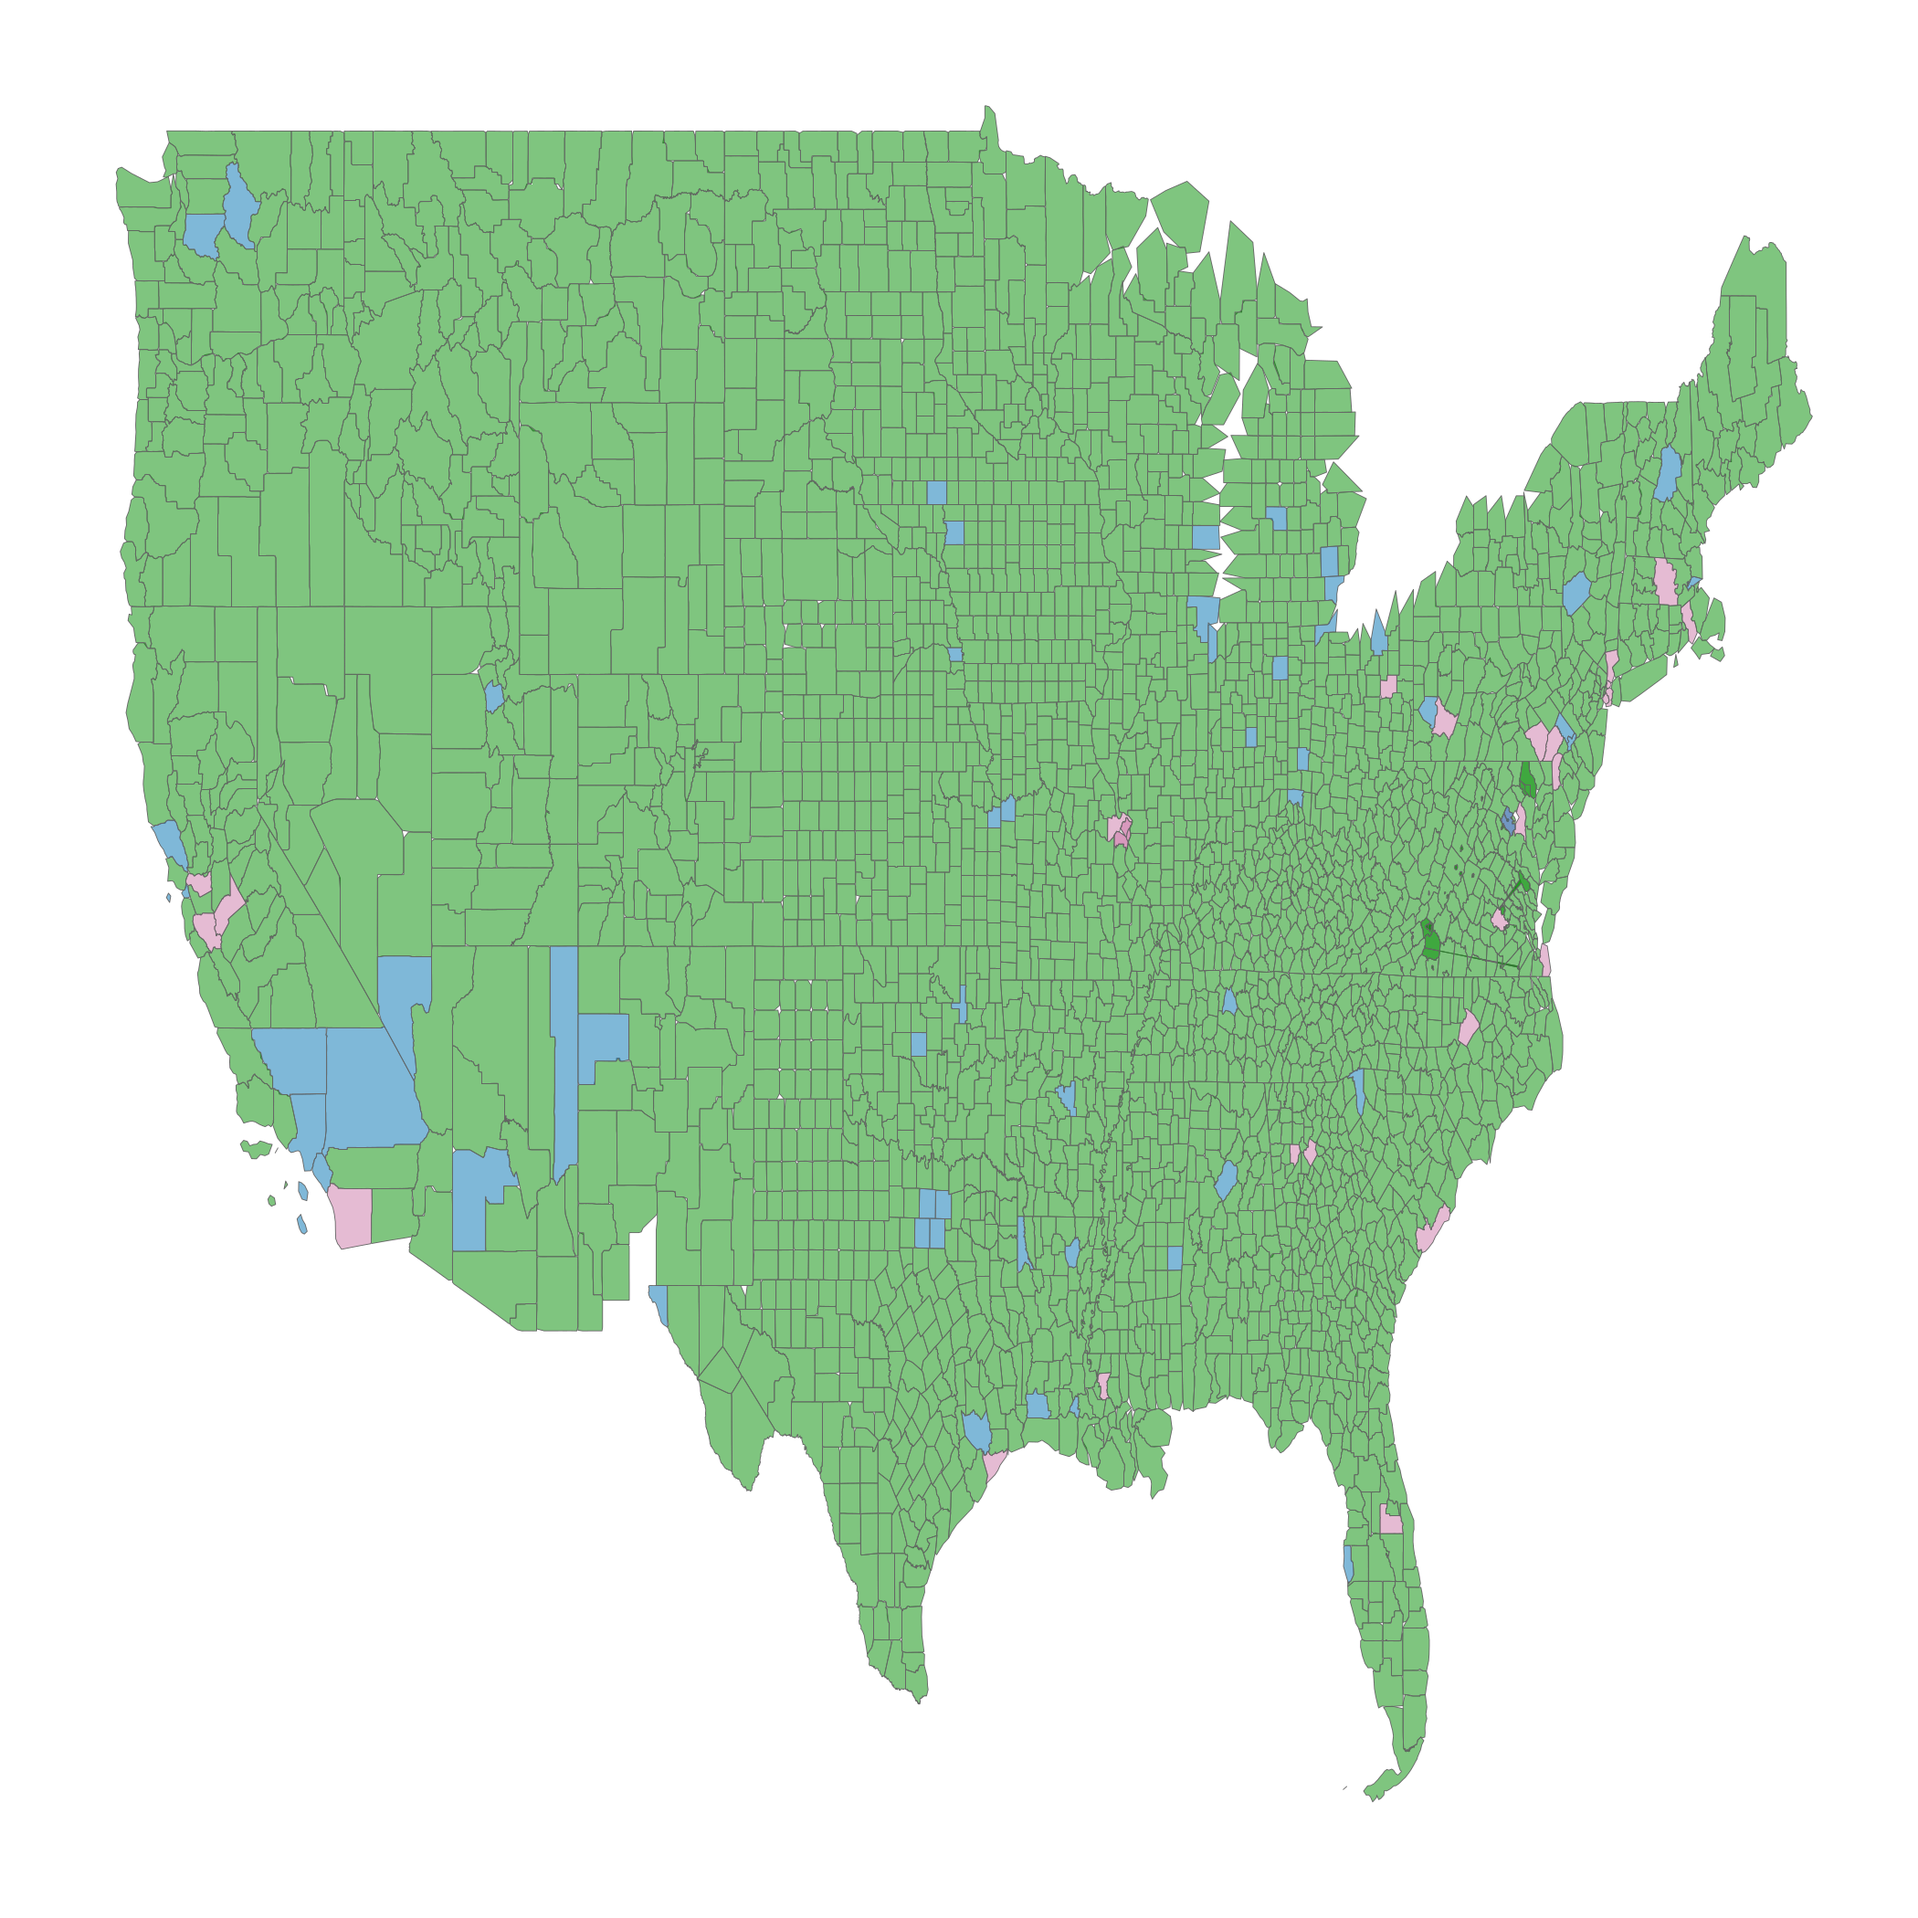
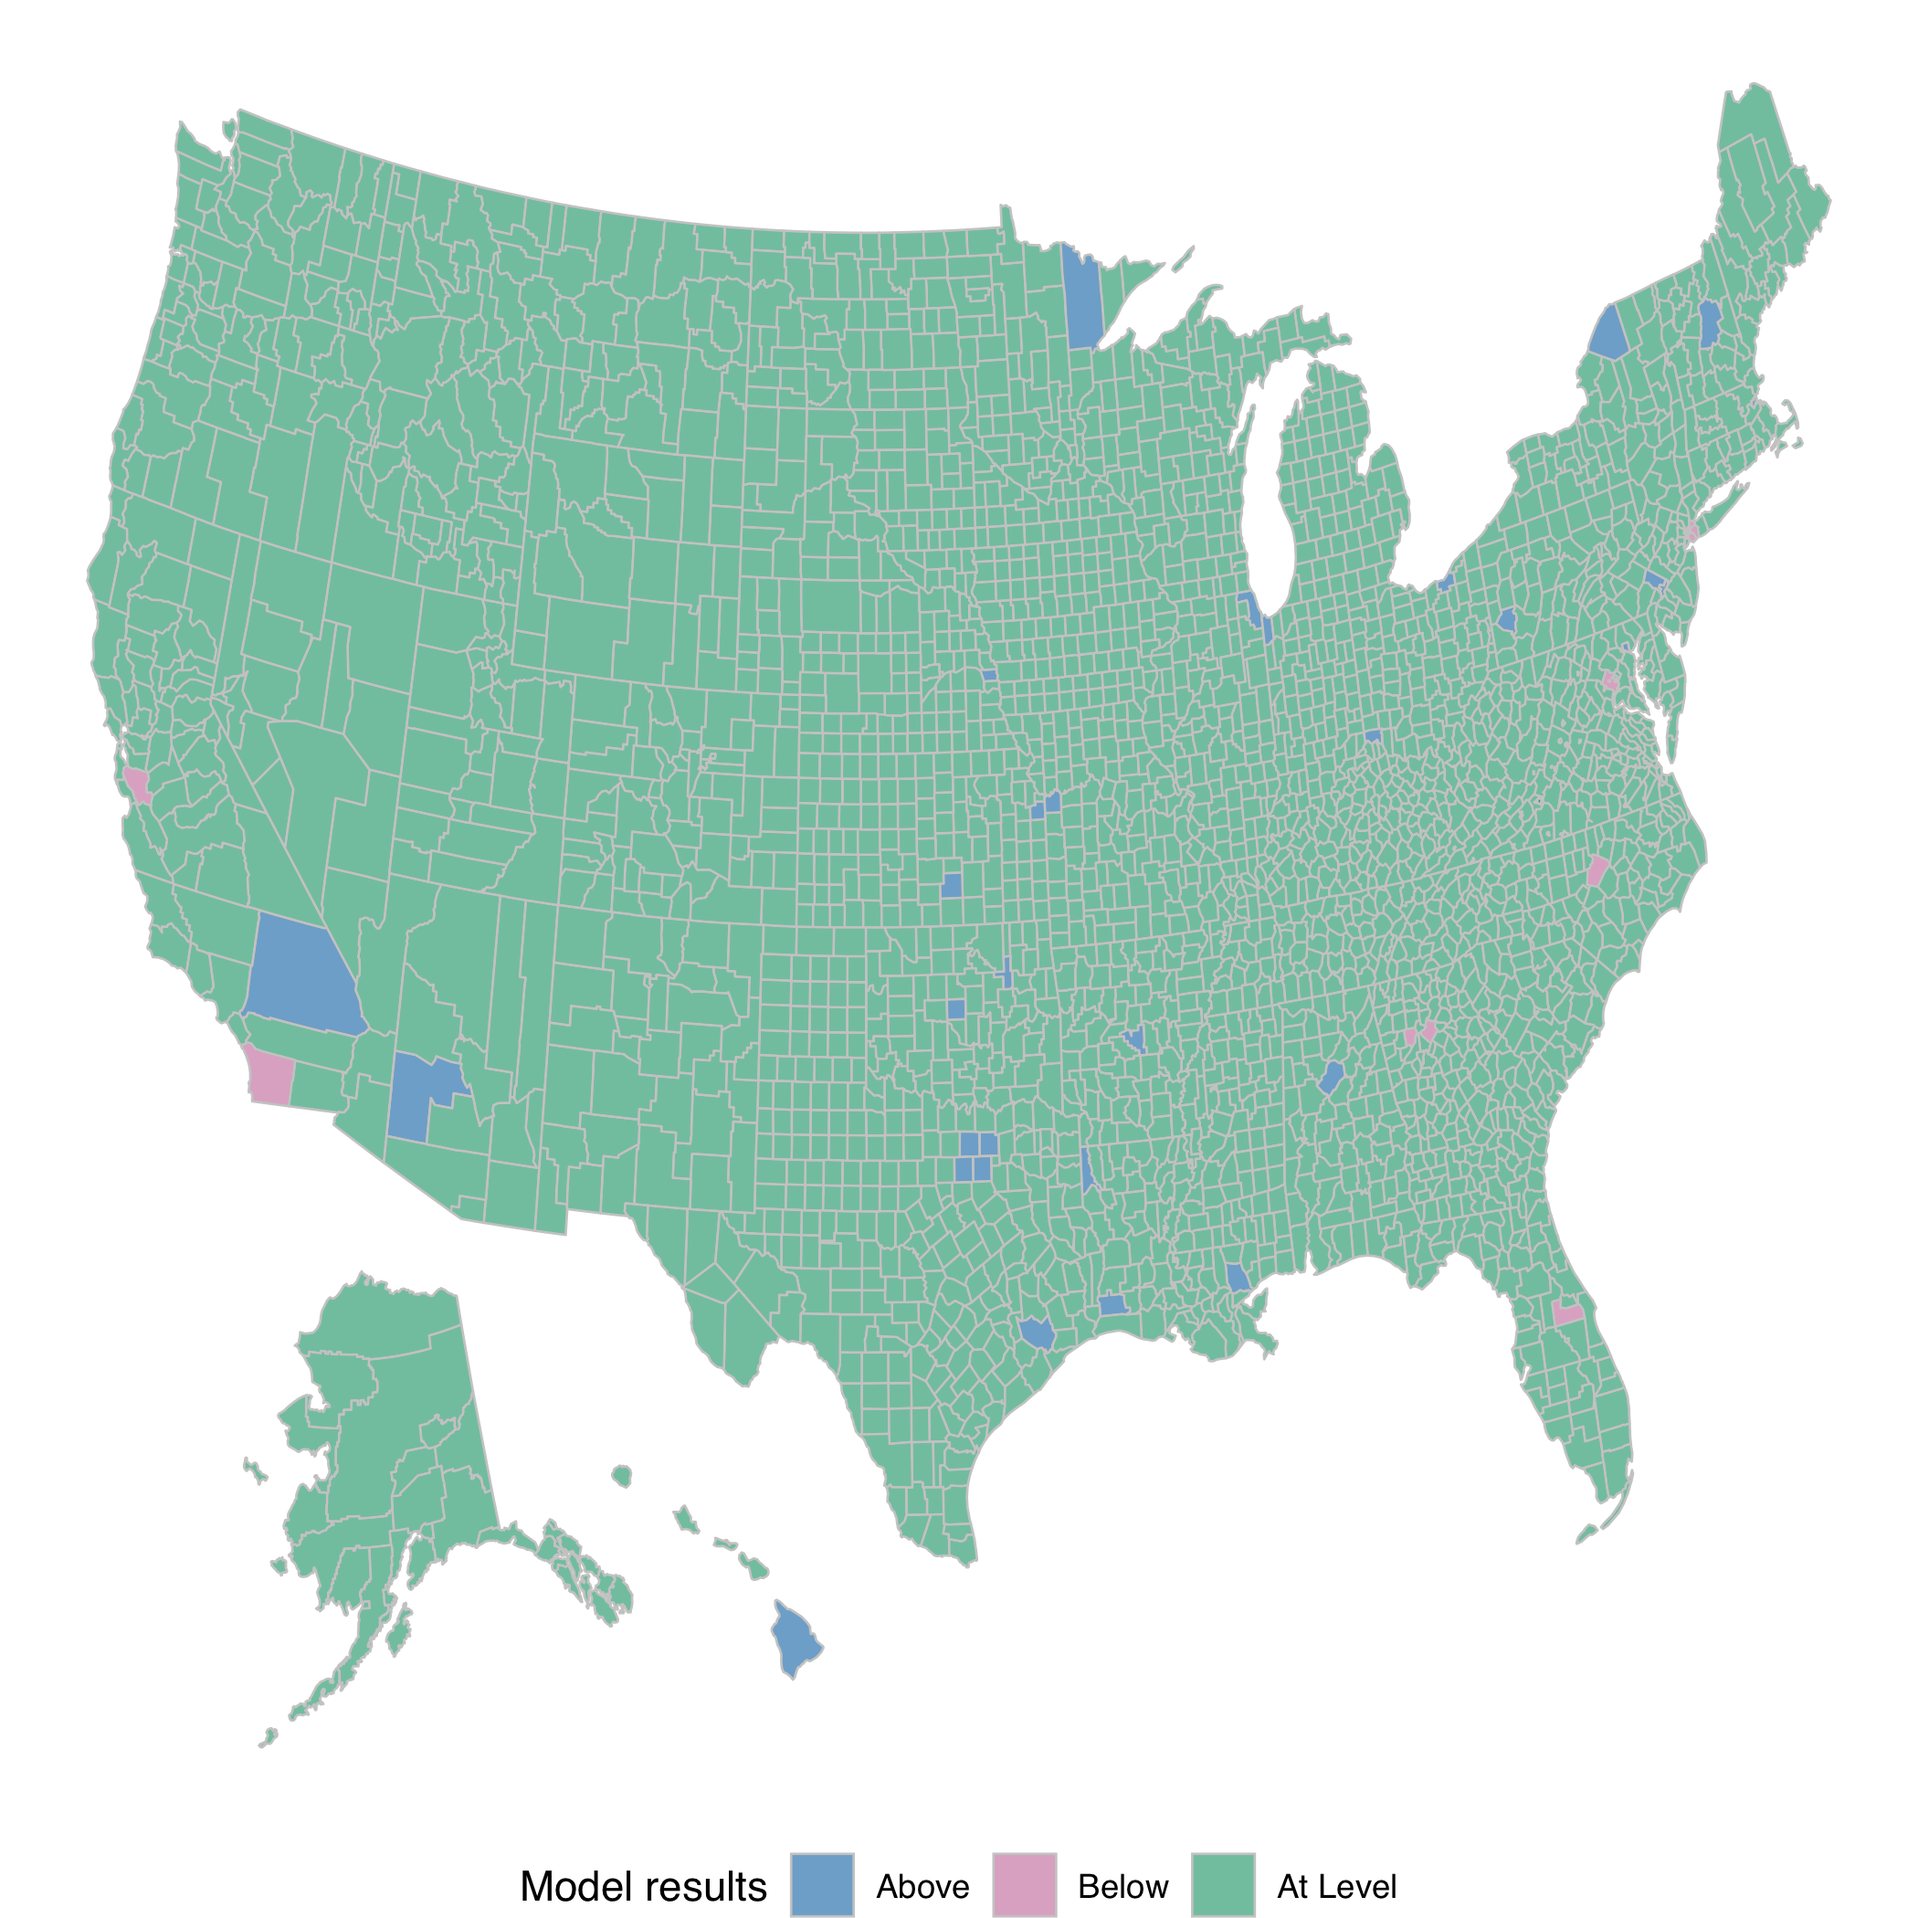
Updates plot content

diff --git a/inst/content/plot/map.html b/inst/content/plot/map.html
@@ -1,0 +1,1 @@
+<img src=map.png width = 1000>
